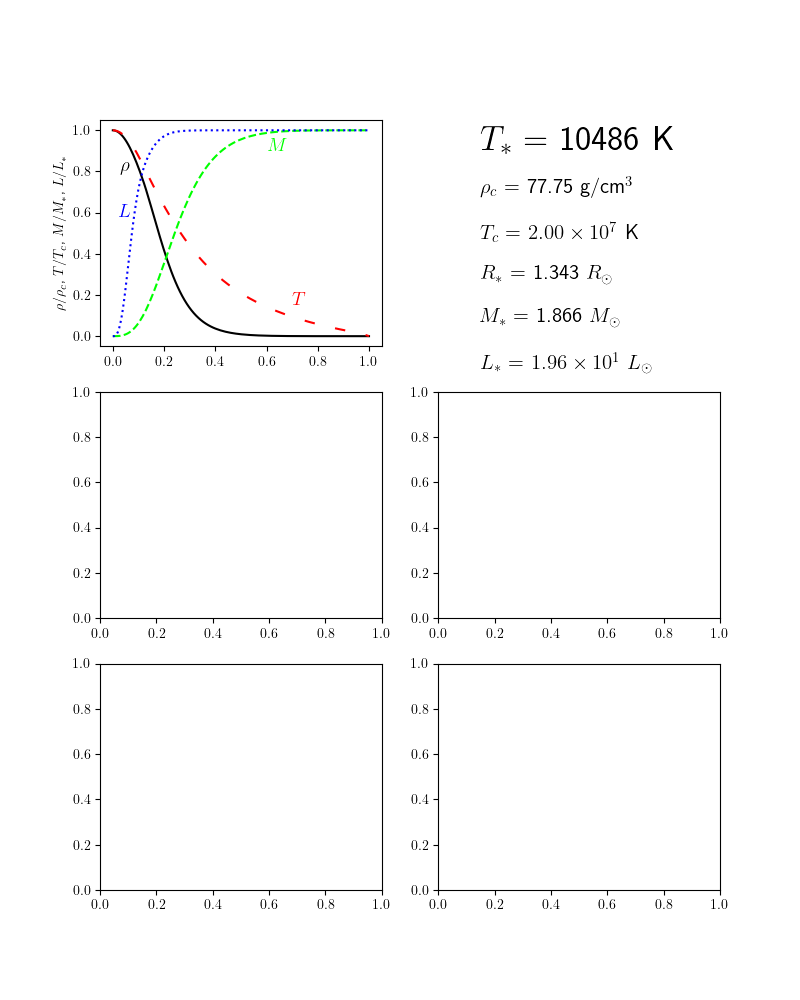
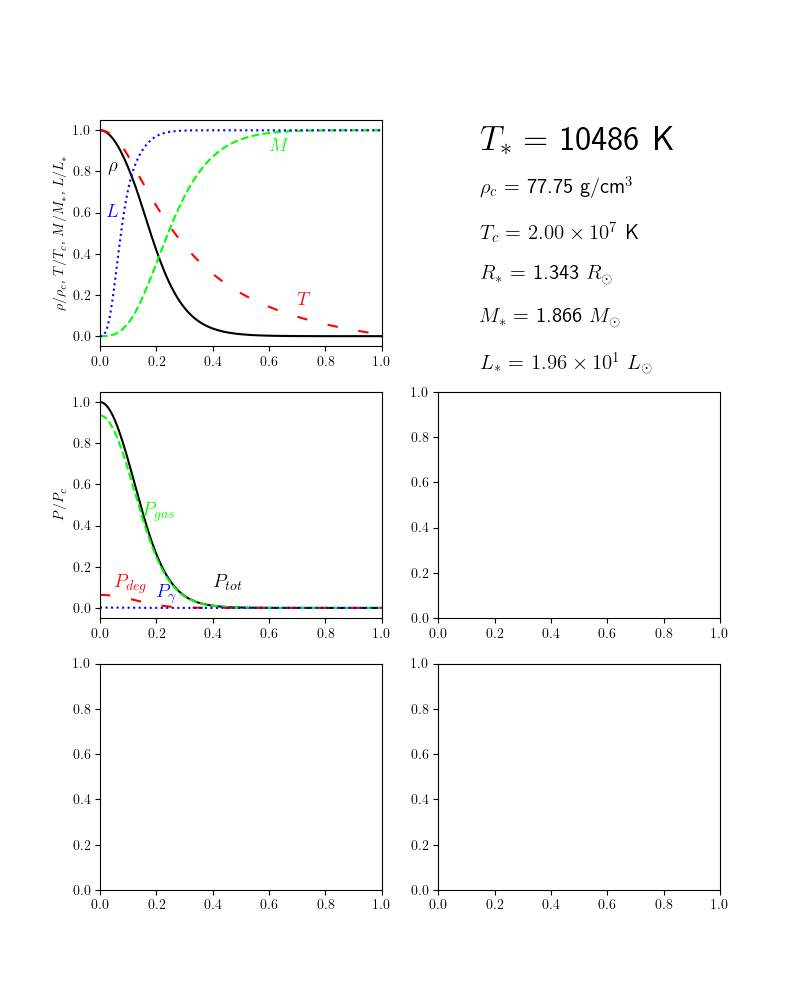
Progress Update
Pressures of plot added.

diff --git a/star_info.py b/star_info.py
@@ -43,9 +43,17 @@ def plot_star(data, info = None, savepath=""):
                     rf'$M_*$ = {round(info.M/s.g_to_kg/s.Msun, 3)} $M_\odot$' + '\n\n' + \
                     r'$L_*$ = ${0:s}$ $L_\odot$'.format(as_si(info.L*s.ergs_to_W/s.Lsun, 2))
 
-        plt.figtext(0.6,0.63,star_info, fontsize=15)
+        plt.figtext(0.6,0.63, star_info, fontsize=15)
 
-    #first plot
+    print(data.columns)
+    print(info)
+
+    #settings aesthetics for all plots
+    for ax in axes.flatten():
+        ax.set_xlim(0,1)
+
+    ## FIRST PLOT
+
     pl_rho = data['rho(r)']/info.rhoc
     pl_M = data['M(r)']/info.M
     pl_T = data['T(r)']/info.Tc
@@ -62,6 +70,22 @@ def plot_star(data, info = None, savepath=""):
     axes[0,0].text(0.02, 0.58, r'$L$', color = s.colours[3], fontsize=14)
 
     axes[0,0].set_ylabel(r'$\rho$/$\rho_c$, $T$/$T_c$, $M$/$M_*$, $L$/$L_*$')
+
+
+    ## SECOND PLOT
+    Pc = data['P'][0]
+
+    #need to relativize the coordinates of the text
+    axes[1,0].plot(data['r/R'], data['P']/Pc, color = s.colours[0])
+    axes[1,0].text(0.4, 0.1, r'$P_{tot}$', color = s.colours[0], fontsize=14)
+    axes[1,0].plot(data['r/R'], data['Pgas']/Pc, color = s.colours[1], ls='dashed')
+    axes[1,0].text(0.15, 0.45, r'$P_{gas}$', color = s.colours[1], fontsize=14)
+    axes[1,0].plot(data['r/R'], data['Pdeg']/Pc, color = s.colours[2], ls=(0, (5, 10)))
+    axes[1,0].text(0.05, 0.1, r'$P_{deg}$', color = s.colours[2], fontsize=14)
+    axes[1,0].plot(data['r/R'], data['Ppho']/Pc, color = s.colours[3], ls='dotted')
+    axes[1,0].text(0.2, 0.05, r'$P_{\gamma}$', color = s.colours[3], fontsize=14)
+
+    axes[1,0].set_ylabel(r'$P$/$P_c$')
 
     if savepath != "":
         plt.savefig(savepath)
